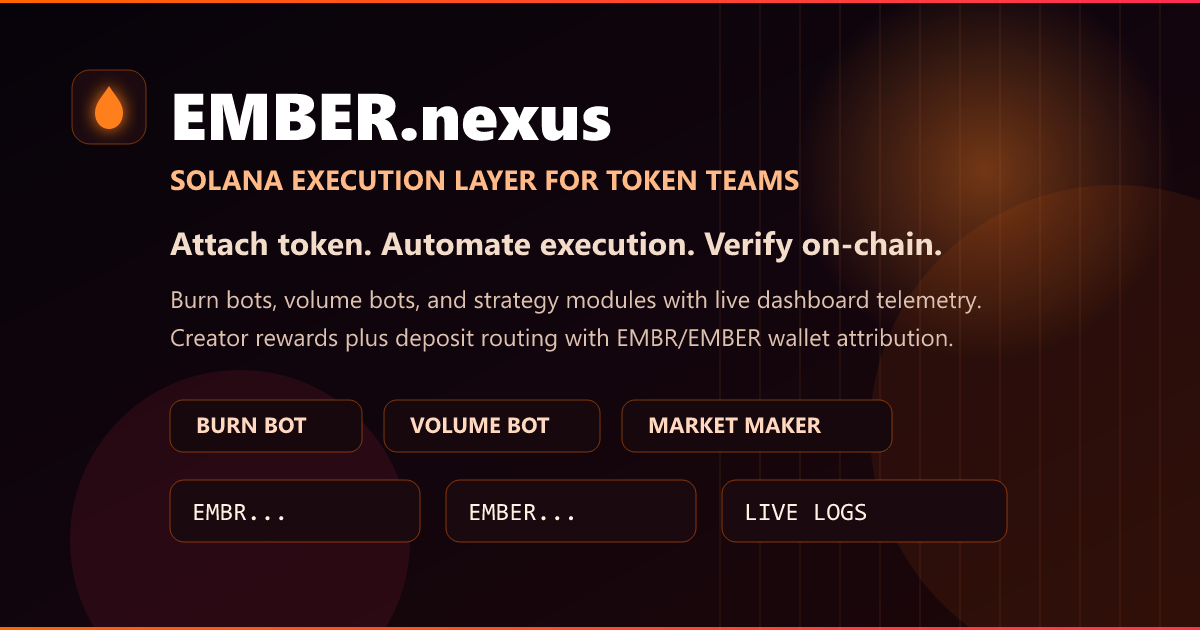
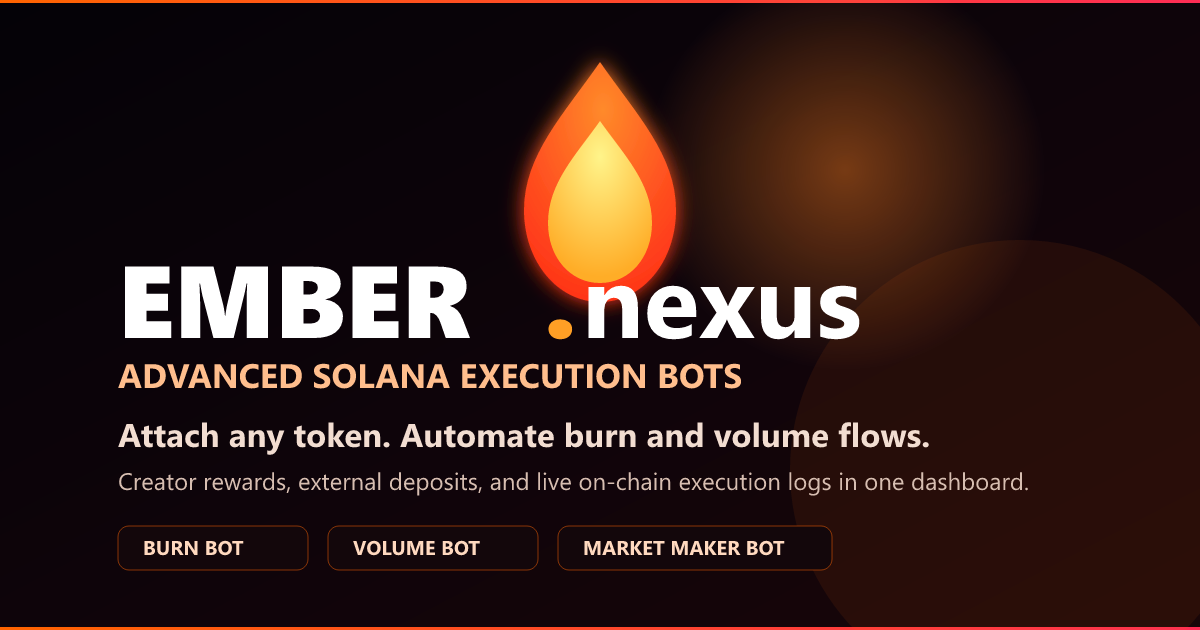
seoupdatexlink

diff --git a/web/index.html b/web/index.html
@@ -3,14 +3,14 @@
   <head>
     <meta charset="UTF-8" />
     <meta name="viewport" content="width=device-width, initial-scale=1.0" />
-    <title>EMBER.nexus | Solana Burn Bot & Execution Bots</title>
+    <title>EMBER.nexus | Solana Burn Bot, Volume Bot & Execution Bots</title>
     <meta
       name="description"
-      content="EMBER.nexus is a Solana burn bot and execution platform for token teams. Automate burn, volume, and strategy flows with live on-chain logs."
+      content="Attach any Solana token. EMBER runs burn bots, volume bots, and execution automation from creator rewards or external funding with live on-chain logs."
     />
     <meta
       name="keywords"
-      content="solana burn bot, solana volume bot, solana execution bot, token burn bot, pump fun bot, EMBER, EMBER.nexus"
+      content="solana burn bot, solana volume bot, solana execution bot, token burn bot, creator rewards bot, EMBER, EMBER.nexus"
     />
     <meta name="robots" content="index, follow, max-image-preview:large" />
     <link rel="canonical" href="https://ember.nexus/" />
@@ -18,25 +18,25 @@
 
     <meta property="og:type" content="website" />
     <meta property="og:site_name" content="EMBER.nexus" />
-    <meta property="og:title" content="EMBER.nexus | Solana Burn Bot & Execution Layer" />
+    <meta property="og:title" content="EMBER.nexus | Advanced Solana Execution Bots" />
     <meta
       property="og:description"
-      content="Solana burn bot and execution platform. Attach your token and automate burn, volume, and strategy flows with transparent on-chain logs."
+      content="Attach any Solana token and automate burn, volume, and execution flows with creator rewards, external deposits, and live on-chain transparency."
     />
     <meta property="og:url" content="https://ember.nexus/" />
-    <meta property="og:image" content="https://ember.nexus/og/ember-og.png?v=20260306a" />
+    <meta property="og:image" content="https://ember.nexus/og/ember-og.png?v=20260306c" />
     <meta property="og:image:type" content="image/png" />
     <meta property="og:image:width" content="1200" />
     <meta property="og:image:height" content="630" />
     <meta property="og:image:alt" content="EMBER.nexus Solana execution bots: burn, volume, and strategy automation with live on-chain logs" />
 
     <meta name="twitter:card" content="summary_large_image" />
-    <meta name="twitter:title" content="EMBER.nexus | Solana Burn Bot & Execution Layer" />
+    <meta name="twitter:title" content="EMBER.nexus | Advanced Solana Execution Bots" />
     <meta
       name="twitter:description"
-      content="Solana burn bot and execution platform for token teams: burn, volume, and strategy automation with transparent on-chain execution."
+      content="Attach any Solana token and automate burn, volume, and execution flows with creator rewards, external deposits, and live on-chain transparency."
     />
-    <meta name="twitter:image" content="https://ember.nexus/og/ember-og.png?v=20260306a" />
+    <meta name="twitter:image" content="https://ember.nexus/og/ember-og.png?v=20260306c" />
     <meta name="twitter:image:alt" content="EMBER.nexus Solana execution bots with live dashboard and on-chain automation" />
     <meta name="twitter:site" content="@ember_nexus" />
 

diff --git a/web/src/config/site.js b/web/src/config/site.js
@@ -32,7 +32,7 @@ export const SOCIAL_LINKS = {
     import.meta.env.VITE_COMMUNITY_X_URL
       || import.meta.env.VITE_CREATOR_X_URL
       || import.meta.env.VITE_X_URL,
-    "https://x.com/ember_nexus"
+    "https://x.com/i/communities/2029665598809198626"
   ),
   telegram: envOr(import.meta.env.VITE_TELEGRAM_URL, "https://t.me/ember_nexus"),
   github: envOr(import.meta.env.VITE_GITHUB_URL, "https://github.com/embernexus"),
